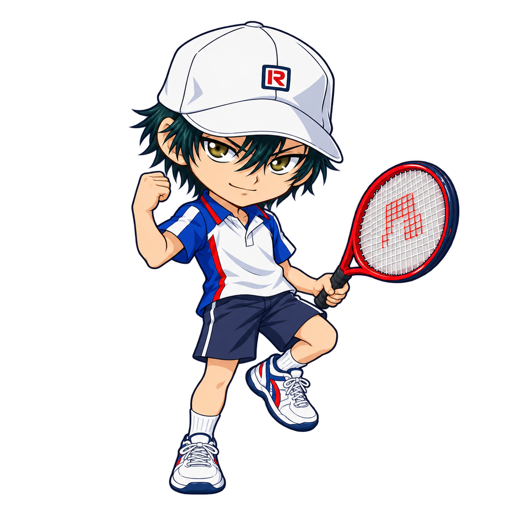
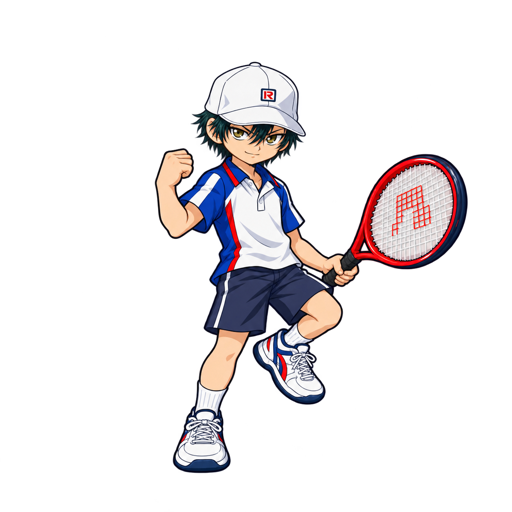
style: refine Ryoma pet head proportions

Changed region(s): [[0.25, 0.0312, 0.9375, 0.9688]]

diff --git a/apps/desktop/resources/pet/RYOMA-PROPORTIONS.md b/apps/desktop/resources/pet/RYOMA-PROPORTIONS.md
@@ -1,0 +1,39 @@
+# 越前龙马头身比例修订
+
+2026-10-30，按用户“脑袋有点大”的要求，使用**内置 imagegen**逐张编辑三种姿态。目标为头、帽子、头发和脸相对原身体整体缩小约四分之一，采用更自然的少年头身比例。保留白帽 R 标记、青学蓝白红球服、左手持拍和原有待机/击球/庆祝动作。
+
+## 当前应用素材
+
+| 姿态 | 项目资源                                    | 生成源文件                                      |
+| ---- | ------------------------------------------- | ----------------------------------------------- |
+| 待机 | `apps/desktop/resources/pet/ryoma-idle.png` | `exec-6fae7129-ce34-4010-9929-00ef474330eb.png` |
+| 击球 | `apps/desktop/resources/pet/ryoma-hit.png`  | `exec-fd6e0ccc-cb16-4f55-a1fa-92ce1a4baf5b.png` |
+| 庆祝 | `apps/desktop/resources/pet/ryoma-ace.png`  | `exec-1aec1087-3b86-4301-8d43-af32acbe5a34.png` |
+
+原始编辑目标为本仓库上一版本的同名 PNG。待机修订图作为击球和庆祝的比例参考；生成原图保留于生成工具本机输出目录，应用只使用仓库内的上述 PNG。最终文件通过系统 sips 规范化为 512×512 RGBA，保留生成的透明 alpha；没有用其他工具重新绘制或拼接人物。初版来源和提示词见 [RYOMA-ASSETS.md](RYOMA-ASSETS.md)。
+
+## 提示词
+
+### 待机
+
+Use case: identity-preserve. Edit target: image 1, the current transparent Ryoma Echizen desktop-pet IDLE sprite. Change ONLY his head-to-body proportions: reduce the ENTIRE head, including cap, hair and face, by about 25% in both width and height relative to his existing body. The result should read as a slim stylized young teenage anime tennis player around FOUR heads tall, with the head+cap about 25% of total standing height, rather than a big-headed baby chibi. Keep his youthful Ryoma identity, sharp amber/olive eyes, green-black hair, cool expression, white cap with readable red/navy R emblem, Seigaku blue-white-red uniform, left-hand racket (VIEWER'S RIGHT), ball in right hand (VIEWER'S LEFT), exact standing pose, body/arms/legs/racket/shoes sizes and locations, line style and cel shading. Naturally reconnect the smaller head to the neck. Do not mirror, change his outfit, mature his face, enlarge the hat again, or shrink the whole body. Keep the full cap, racket, hands and both shoes in frame on the same square composition with clear transparent padding. True transparent alpha background, no floor, ground shadow, scenery, added text, border or watermark.
+
+### 击球（图 1 为原击球图，图 2 为修订待机图）
+
+Use case: identity-preserve. Input image 1 is the EDIT TARGET pose. Input image 2 is the approved NEW SMALLER-HEAD proportion and identity reference for the same Ryoma Echizen. Change only the target's head-to-body proportions to match image 2: scale the entire head INCLUDING the cap, hair and face down by about 25% relative to the original target body. Aim for a slim stylized young teenage anime character around four-heads-tall proportions, head+cap around 25% of standing height, with the same smaller face and cap scale as image 2. Keep youthful Ryoma's dark green-black hair, sharp amber/olive eyes, cool face, readable red/navy R on the white cap, exact blue-white-red Seigaku outfit, existing arms, legs, racket, shoes, clean dark outlines and cel shading. Reconnect the neck naturally. Do not mirror, enlarge the hat, age up the character, change clothing, or shrink the whole sprite. Keep the entire cap, both shoes, all limbs and racket inside a square composition with transparent safety margins. Actual transparent alpha background; no floor, ground shadow, scenery, captions, frame or watermark. Preserve the HIT / left-handed forehand pose from image 1 exactly: racket in HIS LEFT HAND on the VIEWER'S RIGHT, one yellow ball beside the racket, empty right arm extending toward VIEWER'S LEFT, dynamic bent legs. Do not replace the pose with image 2's idle stance.
+
+### 庆祝（图 1 为原庆祝图，图 2 为修订待机图）
+
+Use case: identity-preserve. Input image 1 is the EDIT TARGET pose. Input image 2 is the approved NEW SMALLER-HEAD proportion and identity reference for the same Ryoma Echizen. Change only the target's head-to-body proportions to match image 2: scale the entire head INCLUDING the cap, hair and face down by about 25% relative to the original target body. Aim for a slim stylized young teenage anime character around four-heads-tall proportions, head+cap around 25% of standing height, with the same smaller face and cap scale as image 2. Keep youthful Ryoma's dark green-black hair, sharp amber/olive eyes, cool face, readable red/navy R on the white cap, exact blue-white-red Seigaku outfit, existing arms, legs, racket, shoes, clean dark outlines and cel shading. Reconnect the neck naturally. Do not mirror, enlarge the hat, age up the character, change clothing, or shrink the whole sprite. Keep the entire cap, both shoes, all limbs and racket inside a square composition with transparent safety margins. Actual transparent alpha background; no floor, ground shadow, scenery, captions, frame or watermark. Preserve the ACE celebration pose from image 1 exactly: HIS RIGHT fist raised on VIEWER'S LEFT, racket held in HIS LEFT hand on VIEWER'S RIGHT, one knee lifted, cool small smile. Do not replace the pose with image 2's idle stance.
+
+## 验证
+
+三张均为 512×512 RGBA，存在完全透明和不透明像素，小于 500KB。视觉检查保留完整帽子、人物与球拍，击球/庆祝仍为左手持拍。渲染窗口、点击与拖动范围、动作时序和消息规则不作修改。
+
+最终文件大小为 idle 176398、hit 175601、ace 154283 字节。`pet-assets` 4 项及 `pet-ui` 11 项既有测试全部通过，desktop 构建与 `git diff --check` 通过；本轮只替换图片及说明，没有扩大到数据库/服务端测试。
+
+隔离浏览器按相同的 196×196px 绘图区域显示三态新旧资源，确认全部透明 PNG 正常加载且比例更自然。此对比不代替原生交互验收。完成后重启开发应用以重新加载新版素材。
+
+已确认开发应用重启成功：解析服务、渲染服务与 Electron 主进程均已启动，应用保持运行，临时对比预览已关闭。
+
+[同显示尺寸的三态比例对比](../../../../docs/images/pet-proportions/comparison.jpg)

diff --git a/README.md b/README.md
@@ -12,7 +12,7 @@ AceNote 采用“桌宠 + 日程浮窗”为主、完整记录窗口按需打开
 
 点击浮窗中未完成事项前的圆圈即可直接完成任务，同步取消提醒、更新完成数并触发人物动效；这个操作不需要 DeepSeek 密钥或网络，也会保留输入框里的草稿。误操作可在完整记录中恢复事项。
 
-桌宠使用越前龙马形象的持拍、左手击球、庆祝三态透明 PNG，主窗口、日程浮窗和球场统一为澳网蓝主题。浮窗支持输入日程和完成指令，手动收起后保留本次会话草稿。窗口均通过上下文隔离的 preload 通信，不增加托盘或开机启动。素材来源和提示词见 [RYOMA-ASSETS.md](apps/desktop/resources/pet/RYOMA-ASSETS.md)。
+桌宠使用越前龙马形象的持拍、左手击球、庆祝三态透明 PNG，头帽比例已适度缩小，主窗口、日程浮窗和球场统一为澳网蓝主题。浮窗支持输入日程和完成指令，手动收起后保留本次会话草稿。窗口均通过上下文隔离的 preload 通信，不增加托盘或开机启动。当前素材和提示词见 [RYOMA-PROPORTIONS.md](apps/desktop/resources/pet/RYOMA-PROPORTIONS.md)，初版来源见 [RYOMA-ASSETS.md](apps/desktop/resources/pet/RYOMA-ASSETS.md)。
 
 ## 技术栈
 

diff --git a/apps/desktop/resources/pet/RYOMA-ASSETS.md b/apps/desktop/resources/pet/RYOMA-ASSETS.md
@@ -1,5 +1,7 @@
 # 越前龙马桌宠素材与澳网蓝主题
 
+2026-10-30：人物头身比例已按用户要求调整，当前素材和编辑提示词见 [RYOMA-PROPORTIONS.md](RYOMA-PROPORTIONS.md)。下文保留初版素材来源与提示词。
+
 2026-10-29，按用户要求替换人物。生成方式：**内置 imagegen**；没有使用 CLI/API fallback。以[官方青学角色页](https://tenipuri.jp/character/seigaku)及其[人物图](https://tenipuri.jp/assets/img/character/img/seigaku_ryoma.gif)为身份参考，制作适合透明桌宠的 Q 版适配图。蓝色球场参考 [Australian Open：Green to blue](https://ausopen.com/history/memorable-moments/2008-green-blue)，具体色值为本项目适配。
 
 ## 应用资源

diff --git a/spec/SPEC-ao-blue-ryoma.md b/spec/SPEC-ao-blue-ryoma.md
@@ -2,6 +2,8 @@
 
 后续完成气泡的布局与关闭规则以 [SPEC-pet-message.md](SPEC-pet-message.md) 为准。
 
+2026-10-30：按用户要求统一缩小三态人物的头帽比例，采用更自然的少年体态；素材及提示词见 [RYOMA-PROPORTIONS.md](../apps/desktop/resources/pet/RYOMA-PROPORTIONS.md)。
+
 状态：2026-10-29 用户直接要求实施。覆盖早期深绿/奶油色主题和通用网球人物素材；浮窗优先、大窗口关闭独立、手动退出等规则继续遵循 `SPEC-floating-first.md`。
 
 ## 目标
